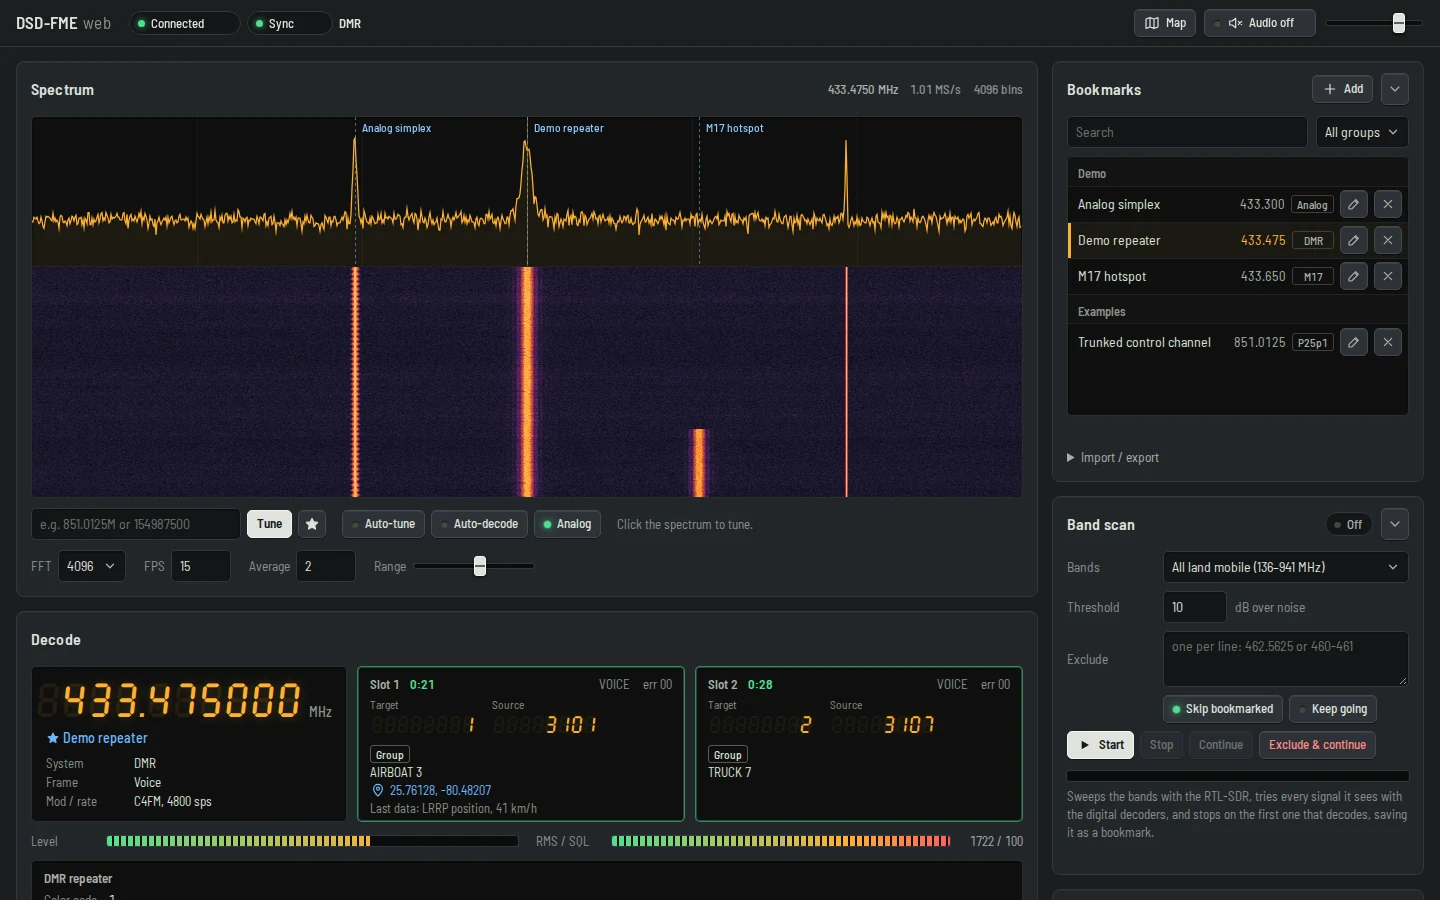
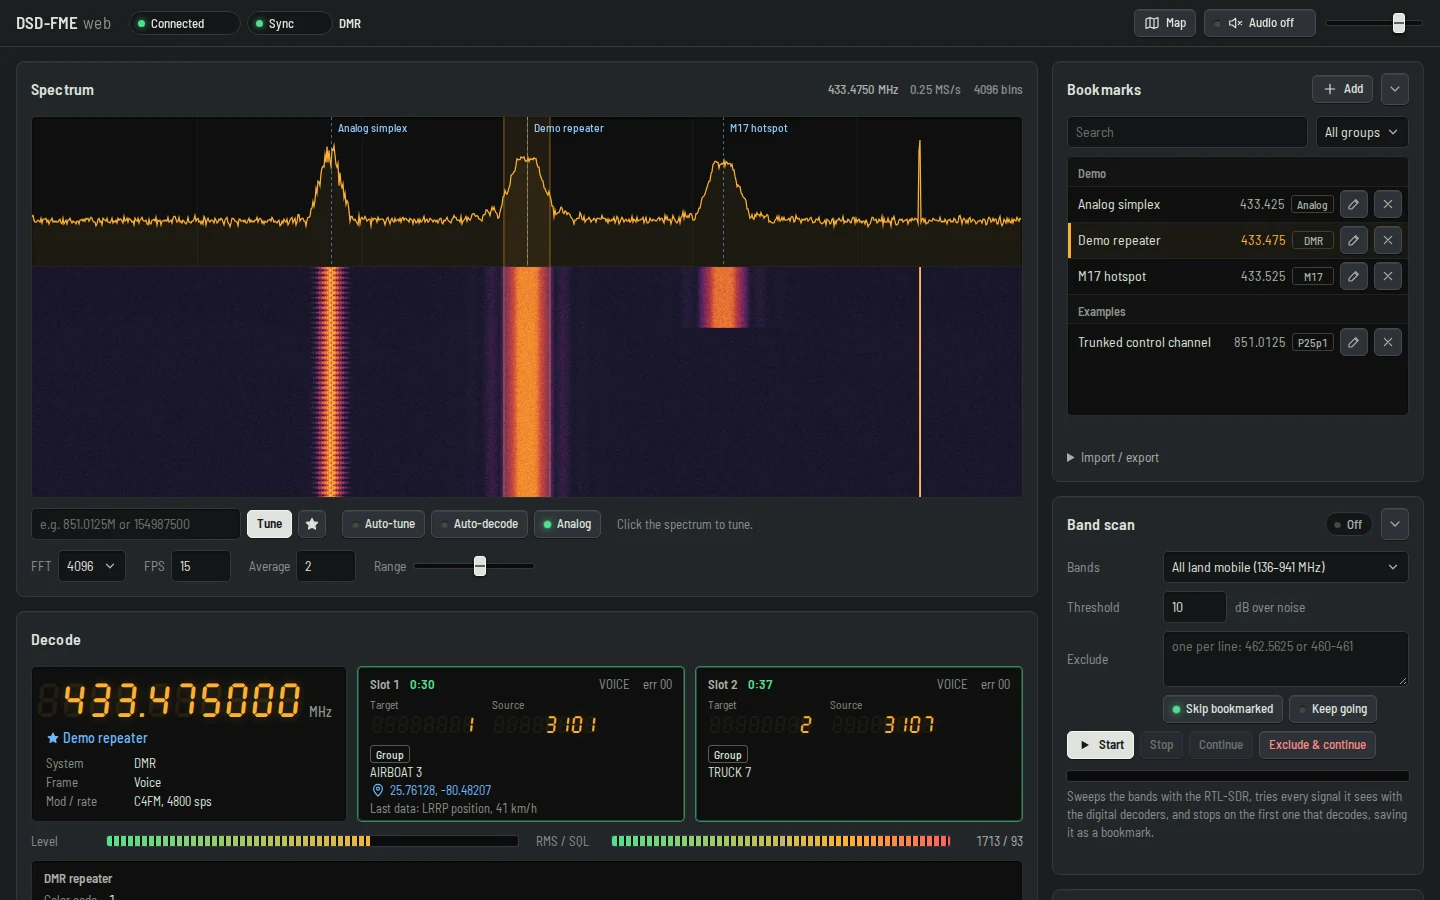
Docs: README Screenshots Show the Demodulator's Band;
The desktop and phone screenshots are retaken at 0.25 MSPS, where the
shaded 12 kHz channel around the tuned frequency is about 47 px wide; at
the default ~1 MSPS it would be about 12 px. The demo stations moved
closer together to fit the narrower span, and the bursty M17 hotspot is
caught on the air. The README's description of the main screenshot and
its spectrum bullet mention the band.

Same simulated receiver and made-up demo data as before, no real
traffic.

diff --git a/README.md b/README.md
@@ -9,12 +9,12 @@ A fork of [DSD-FME](https://github.com/lwvmobile/dsd-fme) with a browser interfa
 dsd-fme -i rtl --web 8080      # then open http://localhost:8080/
 ```
 
-![DSD-FME web: spectrum, waterfall, bookmarks and a DMR call on both slots](docs/screenshots/web-desktop.webp)
+![DSD-FME web: spectrum with the demodulator's channel shaded, waterfall, bookmarks and a DMR call on both slots](docs/screenshots/web-desktop.webp)
 
 ## What's new in this fork
 
 - **Web server inside dsd-fme**: `--web [bind:]port`, with an optional `--web-pass`. The page is embedded in the binary, so there's nothing else to install or run.
-- **Spectrum and waterfall** from the RTL-SDR: click to tune, auto-tune onto the strongest peak, auto-decode, and a band scan that saves what it finds as bookmarks.
+- **Spectrum and waterfall** from the RTL-SDR, with the demodulator's channel shaded around the tuned frequency: click to tune, auto-tune onto the strongest peak, auto-decode, and a band scan that saves what it finds as bookmarks.
 - **Receiver panel**: 7-segment frequency and TG/SRC readouts, per-slot call info (talker alias, GPS, last data) and the site/system picture.
 - **Activity log**: calls, decoded packet data (LRRP, ARS, text messages, P25 packet data…) and signalling, with filters.
 - **Radios and map**: every radio heard, positions on an OpenStreetMap map, radios on air pulse.
